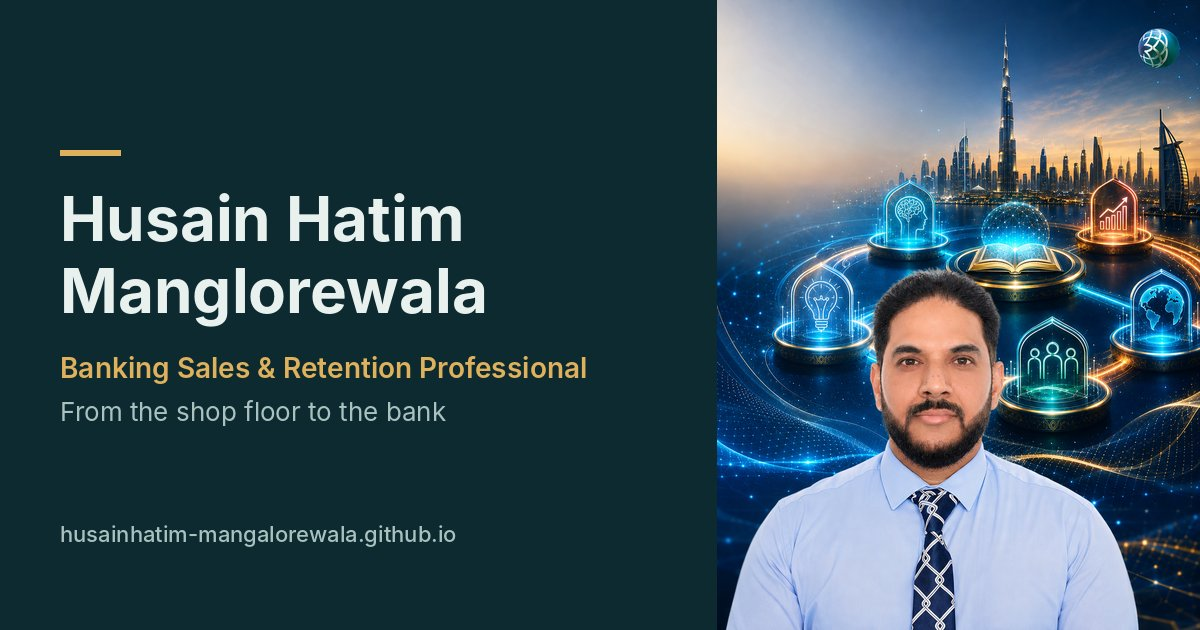
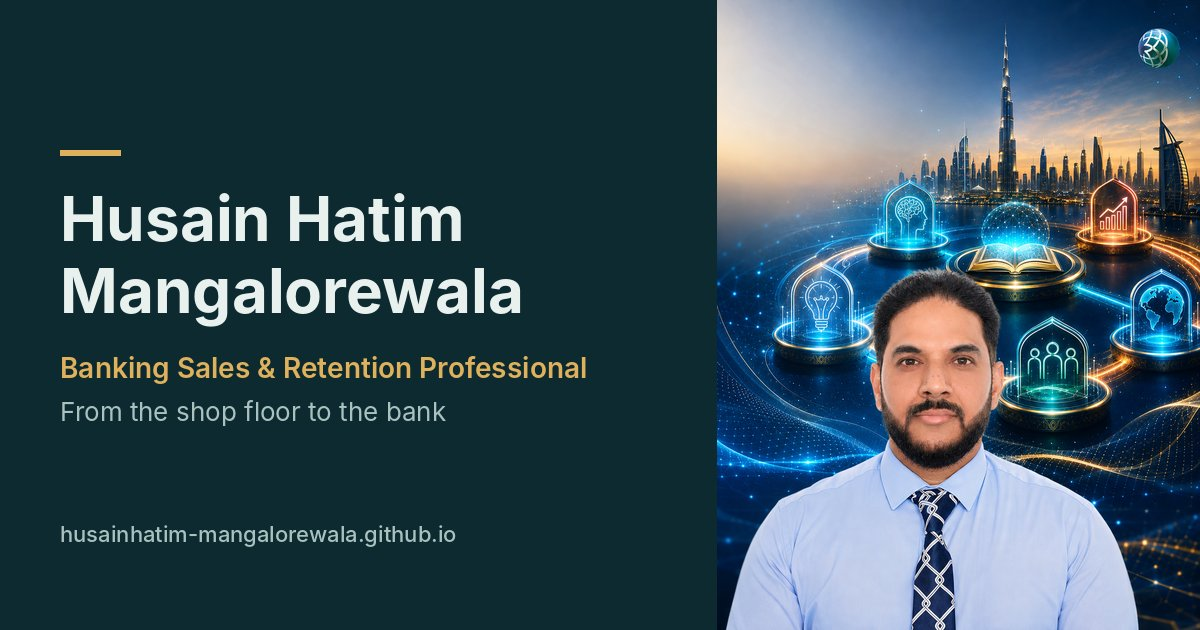
Spell name as Mangalorewala across the site
Claude-Session: https://claude.ai/code/session_01NqSthWaPKccU8ec62Qq6Wr

Changed region(s): [[0.185, 0.4222, 0.4317, 0.5127]]

diff --git a/index.html b/index.html
@@ -3,14 +3,14 @@
 <head>
 <meta charset="utf-8">
 <meta name="viewport" content="width=device-width, initial-scale=1, viewport-fit=cover">
-<title>Husain Hatim Manglorewala | From the Shop Floor to the Bank</title>
-<meta name="description" content="The story of Husain Hatim Manglorewala: 25 years from GCC retail leadership to customer retention in Islamic banking at Dubai Islamic Bank, Sharjah, UAE.">
-<meta name="keywords" content="Husain Hatim Manglorewala, Hussain Mangalorewala, Retention Officer, Dubai Islamic Bank, Banking Sales and Retention, Customer Retention, Islamic Banking, Sharjah, UAE, retail to banking career change">
-<meta name="author" content="Husain Hatim Manglorewala">
+<title>Husain Hatim Mangalorewala | From the Shop Floor to the Bank</title>
+<meta name="description" content="The story of Husain Hatim Mangalorewala: 25 years from GCC retail leadership to customer retention in Islamic banking at Dubai Islamic Bank, Sharjah, UAE.">
+<meta name="keywords" content="Husain Hatim Mangalorewala, Hussain Mangalorewala, Retention Officer, Dubai Islamic Bank, Banking Sales and Retention, Customer Retention, Islamic Banking, Sharjah, UAE, retail to banking career change">
+<meta name="author" content="Husain Hatim Mangalorewala">
 <meta name="google-site-verification" content="7sE03M1nezevRjDu_VGnbsKqyPA1BiCfz1v4_1zT2Tg">
 <meta name="robots" content="index, follow, max-image-preview:large">
 <meta name="theme-color" content="#0C2A30">
-<meta property="og:site_name" content="Husain Hatim Manglorewala">
+<meta property="og:site_name" content="Husain Hatim Mangalorewala">
 <meta property="og:locale" content="en_US">
 <link rel="icon" href="/favicon.ico" sizes="any">
 <link rel="icon" type="image/png" sizes="32x32" href="/favicon-32.png">
@@ -18,14 +18,14 @@
 <link rel="preload" as="image" href="/assets/portrait.webp" fetchpriority="high">
 <link rel="canonical" href="https://husainhatim-mangalorewala.github.io/">
 <meta property="og:type" content="profile">
-<meta property="og:title" content="Husain Hatim Manglorewala | From the Shop Floor to the Bank">
-<meta property="og:description" content="The story of Husain Hatim Manglorewala: 25 years from GCC retail leadership to customer retention in Islamic banking at Dubai Islamic Bank, Sharjah, UAE.">
+<meta property="og:title" content="Husain Hatim Mangalorewala | From the Shop Floor to the Bank">
+<meta property="og:description" content="The story of Husain Hatim Mangalorewala: 25 years from GCC retail leadership to customer retention in Islamic banking at Dubai Islamic Bank, Sharjah, UAE.">
 <meta property="og:url" content="https://husainhatim-mangalorewala.github.io/">
 <meta property="og:image" content="https://husainhatim-mangalorewala.github.io/assets/og-image.jpg">
 <meta property="og:image:width" content="1200"><meta property="og:image:height" content="630">
 <meta name="twitter:card" content="summary_large_image">
-<meta name="twitter:title" content="Husain Hatim Manglorewala | From the Shop Floor to the Bank"><meta name="twitter:description" content="The story of Husain Hatim Manglorewala: 25 years from GCC retail leadership to customer retention in Islamic banking at Dubai Islamic Bank, Sharjah, UAE."><meta name="twitter:image" content="https://husainhatim-mangalorewala.github.io/assets/og-image.jpg">
-<script type="application/ld+json">{"@context": "https://schema.org", "@graph": [{"@type": "Person", "@id": "https://husainhatim-mangalorewala.github.io/#person", "name": "Husain Hatim Manglorewala", "alternateName": ["Hussain Hatim Mangalorewala", "Husain Manglorewala", "Hussain Mangalorewala"], "jobTitle": "Retention Officer", "description": "Banking sales and retention professional in the UAE with 25+ years across GCC retail and banking.", "worksFor": {"@type": "Organization", "name": "Dubai Islamic Bank"}, "hasOccupation": {"@type": "Occupation", "name": "Banking Sales & Retention Professional", "occupationLocation": {"@type": "Country", "name": "United Arab Emirates"}}, "alumniOf": [{"@type": "EducationalOrganization", "name": "Kohinoor Technical Institute, Pune"}, {"@type": "EducationalOrganization", "name": "Rosary High School, Mumbai"}], "address": {"@type": "PostalAddress", "addressLocality": "Sharjah", "addressCountry": "AE"}, "url": "https://husainhatim-mangalorewala.github.io/", "image": "https://husainhatim-mangalorewala.github.io/assets/portrait.webp", "sameAs": ["https://www.linkedin.com/in/husain-mangalorewala-15b57823"], "knowsAbout": ["Customer Retention", "Islamic Banking", "CASA", "Wakala Deposits", "Credit Card Retention", "Retail Management", "MIS Reporting", "Microsoft Excel", "Power BI"], "knowsLanguage": ["English", "Hindi", "Urdu", "Gujarati", "Malayalam", "Arabic"]}, {"@type": "WebSite", "@id": "https://husainhatim-mangalorewala.github.io/#website", "url": "https://husainhatim-mangalorewala.github.io/", "name": "Husain Hatim Manglorewala", "inLanguage": "en", "publisher": {"@id": "https://husainhatim-mangalorewala.github.io/#person"}}, {"@type": "ProfilePage", "@id": "https://husainhatim-mangalorewala.github.io/#page", "url": "https://husainhatim-mangalorewala.github.io/", "name": "Husain Hatim Manglorewala – From the Shop Floor to the Bank", "isPartOf": {"@id": "https://husainhatim-mangalorewala.github.io/#website"}, "mainEntity": {"@id": "https://husainhatim-mangalorewala.github.io/#person"}, "dateModified": "2026-11-17"}]}</script>
+<meta name="twitter:title" content="Husain Hatim Mangalorewala | From the Shop Floor to the Bank"><meta name="twitter:description" content="The story of Husain Hatim Mangalorewala: 25 years from GCC retail leadership to customer retention in Islamic banking at Dubai Islamic Bank, Sharjah, UAE."><meta name="twitter:image" content="https://husainhatim-mangalorewala.github.io/assets/og-image.jpg">
+<script type="application/ld+json">{"@context": "https://schema.org", "@graph": [{"@type": "Person", "@id": "https://husainhatim-mangalorewala.github.io/#person", "name": "Husain Hatim Mangalorewala", "alternateName": ["Husain Hatim Manglorewala", "Husain Manglorewala", "Hussain Hatim Mangalorewala", "Hussain Mangalorewala", "Husain Mangalorewala"], "jobTitle": "Retention Officer", "description": "Banking sales and retention professional in the UAE with 25+ years across GCC retail and banking.", "worksFor": {"@type": "Organization", "name": "Dubai Islamic Bank"}, "hasOccupation": {"@type": "Occupation", "name": "Banking Sales & Retention Professional", "occupationLocation": {"@type": "Country", "name": "United Arab Emirates"}}, "alumniOf": [{"@type": "EducationalOrganization", "name": "Kohinoor Technical Institute, Pune"}, {"@type": "EducationalOrganization", "name": "Rosary High School, Mumbai"}], "address": {"@type": "PostalAddress", "addressLocality": "Sharjah", "addressCountry": "AE"}, "url": "https://husainhatim-mangalorewala.github.io/", "image": "https://husainhatim-mangalorewala.github.io/assets/portrait.webp", "sameAs": ["https://www.linkedin.com/in/husain-mangalorewala-15b57823"], "knowsAbout": ["Customer Retention", "Islamic Banking", "CASA", "Wakala Deposits", "Credit Card Retention", "Retail Management", "MIS Reporting", "Microsoft Excel", "Power BI"], "knowsLanguage": ["English", "Hindi", "Urdu", "Gujarati", "Malayalam", "Arabic"]}, {"@type": "WebSite", "@id": "https://husainhatim-mangalorewala.github.io/#website", "url": "https://husainhatim-mangalorewala.github.io/", "name": "Husain Hatim Mangalorewala", "inLanguage": "en", "publisher": {"@id": "https://husainhatim-mangalorewala.github.io/#person"}}, {"@type": "ProfilePage", "@id": "https://husainhatim-mangalorewala.github.io/#page", "url": "https://husainhatim-mangalorewala.github.io/", "name": "Husain Hatim Mangalorewala – From the Shop Floor to the Bank", "isPartOf": {"@id": "https://husainhatim-mangalorewala.github.io/#website"}, "mainEntity": {"@id": "https://husainhatim-mangalorewala.github.io/#person"}, "dateModified": "2026-11-17"}]}</script>
 <style>*,*::before,*::after{box-sizing:border-box}html{-webkit-text-size-adjust:100%}:root{padding-top:env(safe-area-inset-top,0px);padding-bottom:env(safe-area-inset-bottom,0px)}body{margin:0}img{max-width:100%}[hidden]{display:none!important}</style>
 </head>
 <body>
@@ -184,13 +184,13 @@ footer .wrap{padding-block:18px;display:flex;justify-content:space-between;gap:1
     </svg>
     <div class="wrap">
       <div class="hero-text">
-        <h1 class="kicker">Husain Hatim Manglorewala · From the shop floor to the bank</h1>
+        <h1 class="kicker">Husain Hatim Mangalorewala · From the shop floor to the bank</h1>
         <p class="headline">Twenty-five years of <em>earning trust</em>, one customer at a time.</p>
         <p class="lede">I spent two decades on the retail floors of Qatar and the UAE. In my mid-forties I started again in banking. This is the story of that journey, and what carried over from one counter to the other.</p>
         <div class="who">Retention Officer, Dubai Islamic Bank <span>· Sharjah, UAE</span></div>
         <div><a href="profile/" style="display:inline-flex;gap:8px;align-items:center;padding:10px 18px;border-radius:999px;border:1px solid rgba(233,241,239,.35);color:#E9F1EF;text-decoration:none;font-weight:600;font-size:15px">View professional profile →</a></div>
       </div>
-      <div class="portrait"><img src="assets/portrait.webp" alt="Portrait of Husain Hatim Manglorewala" width="720" height="938" fetchpriority="high" decoding="async"></div>
+      <div class="portrait"><img src="assets/portrait.webp" alt="Portrait of Husain Hatim Mangalorewala" width="720" height="938" fetchpriority="high" decoding="async"></div>
     </div>
   </section>
 
@@ -369,7 +369,7 @@ footer .wrap{padding-block:18px;display:flex;justify-content:space-between;gap:1
     <div class="wrap">
       <div>
         <blockquote>“It's not about where you start. It's about whether you're <em>still willing to learn</em>.”</blockquote>
-        <div class="sig">Husain Hatim Manglorewala · Sharjah, UAE</div>
+        <div class="sig">Husain Hatim Mangalorewala · Sharjah, UAE</div>
       </div>
       <div class="clist">
         <div class="crow"><div style="min-width:0"><div class="k">LinkedIn</div><a class="v" href="https://www.linkedin.com/in/husain-mangalorewala-15b57823" target="_blank" rel="noopener me">husain-mangalorewala ↗</a></div></div>
@@ -377,7 +377,7 @@ footer .wrap{padding-block:18px;display:flex;justify-content:space-between;gap:1
     </div>
   </section>
 </main>
-<footer><div class="wrap"><span>© 2026 Husain Hatim Manglorewala (also written Hussain Mangalorewala)</span><span>Trust · Service · Learning</span></div></footer>
+<footer><div class="wrap"><span>© 2026 Husain Hatim Mangalorewala (also written Hussain Mangalorewala)</span><span>Trust · Service · Learning</span></div></footer>
 
 <script>
 document.querySelectorAll('.copy').forEach(function(b){

diff --git a/profile/index.html b/profile/index.html
@@ -3,14 +3,14 @@
 <head>
 <meta charset="utf-8">
 <meta name="viewport" content="width=device-width, initial-scale=1, viewport-fit=cover">
-<title>Husain Hatim Manglorewala | Banking Retention Professional, UAE</title>
-<meta name="description" content="Husain Hatim Manglorewala, Retention Officer at Dubai Islamic Bank: 25+ years across GCC banking and retail, customer retention, CASA and Wakala deposits.">
-<meta name="keywords" content="Husain Hatim Manglorewala, Hussain Mangalorewala, Retention Officer, Dubai Islamic Bank, Banking Sales and Retention, Customer Retention, Islamic Banking, Sharjah, UAE, retail to banking career change">
-<meta name="author" content="Husain Hatim Manglorewala">
+<title>Husain Hatim Mangalorewala | Banking Retention Professional, UAE</title>
+<meta name="description" content="Husain Hatim Mangalorewala, Retention Officer at Dubai Islamic Bank: 25+ years across GCC banking and retail, customer retention, CASA and Wakala deposits.">
+<meta name="keywords" content="Husain Hatim Mangalorewala, Hussain Mangalorewala, Retention Officer, Dubai Islamic Bank, Banking Sales and Retention, Customer Retention, Islamic Banking, Sharjah, UAE, retail to banking career change">
+<meta name="author" content="Husain Hatim Mangalorewala">
 <meta name="google-site-verification" content="7sE03M1nezevRjDu_VGnbsKqyPA1BiCfz1v4_1zT2Tg">
 <meta name="robots" content="index, follow, max-image-preview:large">
 <meta name="theme-color" content="#0C2A30">
-<meta property="og:site_name" content="Husain Hatim Manglorewala">
+<meta property="og:site_name" content="Husain Hatim Mangalorewala">
 <meta property="og:locale" content="en_US">
 <link rel="icon" href="/favicon.ico" sizes="any">
 <link rel="icon" type="image/png" sizes="32x32" href="/favicon-32.png">
@@ -18,14 +18,14 @@
 <link rel="preload" as="image" href="/assets/portrait.webp" fetchpriority="high">
 <link rel="canonical" href="https://husainhatim-mangalorewala.github.io/profile/">
 <meta property="og:type" content="profile">
-<meta property="og:title" content="Husain Hatim Manglorewala | Banking Retention Professional, UAE">
-<meta property="og:description" content="Husain Hatim Manglorewala, Retention Officer at Dubai Islamic Bank: 25+ years across GCC banking and retail, customer retention, CASA and Wakala deposits.">
+<meta property="og:title" content="Husain Hatim Mangalorewala | Banking Retention Professional, UAE">
+<meta property="og:description" content="Husain Hatim Mangalorewala, Retention Officer at Dubai Islamic Bank: 25+ years across GCC banking and retail, customer retention, CASA and Wakala deposits.">
 <meta property="og:url" content="https://husainhatim-mangalorewala.github.io/profile/">
 <meta property="og:image" content="https://husainhatim-mangalorewala.github.io/assets/og-image.jpg">
 <meta property="og:image:width" content="1200"><meta property="og:image:height" content="630">
 <meta name="twitter:card" content="summary_large_image">
-<meta name="twitter:title" content="Husain Hatim Manglorewala | Banking Retention Professional, UAE"><meta name="twitter:description" content="Husain Hatim Manglorewala, Retention Officer at Dubai Islamic Bank: 25+ years across GCC banking and retail, customer retention, CASA and Wakala deposits."><meta name="twitter:image" content="https://husainhatim-mangalorewala.github.io/assets/og-image.jpg">
-<script type="application/ld+json">{"@context": "https://schema.org", "@graph": [{"@type": "Person", "@id": "https://husainhatim-mangalorewala.github.io/#person", "name": "Husain Hatim Manglorewala", "alternateName": ["Hussain Hatim Mangalorewala", "Husain Manglorewala", "Hussain Mangalorewala"], "jobTitle": "Retention Officer", "description": "Banking sales and retention professional in the UAE with 25+ years across GCC retail and banking.", "worksFor": {"@type": "Organization", "name": "Dubai Islamic Bank"}, "hasOccupation": {"@type": "Occupation", "name": "Banking Sales & Retention Professional", "occupationLocation": {"@type": "Country", "name": "United Arab Emirates"}}, "alumniOf": [{"@type": "EducationalOrganization", "name": "Kohinoor Technical Institute, Pune"}, {"@type": "EducationalOrganization", "name": "Rosary High School, Mumbai"}], "address": {"@type": "PostalAddress", "addressLocality": "Sharjah", "addressCountry": "AE"}, "url": "https://husainhatim-mangalorewala.github.io/", "image": "https://husainhatim-mangalorewala.github.io/assets/portrait.webp", "sameAs": ["https://www.linkedin.com/in/husain-mangalorewala-15b57823"], "knowsAbout": ["Customer Retention", "Islamic Banking", "CASA", "Wakala Deposits", "Credit Card Retention", "Retail Management", "MIS Reporting", "Microsoft Excel", "Power BI"], "knowsLanguage": ["English", "Hindi", "Urdu", "Gujarati", "Malayalam", "Arabic"]}, {"@type": "WebSite", "@id": "https://husainhatim-mangalorewala.github.io/#website", "url": "https://husainhatim-mangalorewala.github.io/", "name": "Husain Hatim Manglorewala", "inLanguage": "en", "publisher": {"@id": "https://husainhatim-mangalorewala.github.io/#person"}}, {"@type": "ProfilePage", "@id": "https://husainhatim-mangalorewala.github.io/profile/#page", "url": "https://husainhatim-mangalorewala.github.io/profile/", "name": "Husain Hatim Manglorewala – Professional Profile", "isPartOf": {"@id": "https://husainhatim-mangalorewala.github.io/#website"}, "mainEntity": {"@id": "https://husainhatim-mangalorewala.github.io/#person"}, "dateModified": "2026-11-17"}]}</script>
+<meta name="twitter:title" content="Husain Hatim Mangalorewala | Banking Retention Professional, UAE"><meta name="twitter:description" content="Husain Hatim Mangalorewala, Retention Officer at Dubai Islamic Bank: 25+ years across GCC banking and retail, customer retention, CASA and Wakala deposits."><meta name="twitter:image" content="https://husainhatim-mangalorewala.github.io/assets/og-image.jpg">
+<script type="application/ld+json">{"@context": "https://schema.org", "@graph": [{"@type": "Person", "@id": "https://husainhatim-mangalorewala.github.io/#person", "name": "Husain Hatim Mangalorewala", "alternateName": ["Husain Hatim Manglorewala", "Husain Manglorewala", "Hussain Hatim Mangalorewala", "Hussain Mangalorewala", "Husain Mangalorewala"], "jobTitle": "Retention Officer", "description": "Banking sales and retention professional in the UAE with 25+ years across GCC retail and banking.", "worksFor": {"@type": "Organization", "name": "Dubai Islamic Bank"}, "hasOccupation": {"@type": "Occupation", "name": "Banking Sales & Retention Professional", "occupationLocation": {"@type": "Country", "name": "United Arab Emirates"}}, "alumniOf": [{"@type": "EducationalOrganization", "name": "Kohinoor Technical Institute, Pune"}, {"@type": "EducationalOrganization", "name": "Rosary High School, Mumbai"}], "address": {"@type": "PostalAddress", "addressLocality": "Sharjah", "addressCountry": "AE"}, "url": "https://husainhatim-mangalorewala.github.io/", "image": "https://husainhatim-mangalorewala.github.io/assets/portrait.webp", "sameAs": ["https://www.linkedin.com/in/husain-mangalorewala-15b57823"], "knowsAbout": ["Customer Retention", "Islamic Banking", "CASA", "Wakala Deposits", "Credit Card Retention", "Retail Management", "MIS Reporting", "Microsoft Excel", "Power BI"], "knowsLanguage": ["English", "Hindi", "Urdu", "Gujarati", "Malayalam", "Arabic"]}, {"@type": "WebSite", "@id": "https://husainhatim-mangalorewala.github.io/#website", "url": "https://husainhatim-mangalorewala.github.io/", "name": "Husain Hatim Mangalorewala", "inLanguage": "en", "publisher": {"@id": "https://husainhatim-mangalorewala.github.io/#person"}}, {"@type": "ProfilePage", "@id": "https://husainhatim-mangalorewala.github.io/profile/#page", "url": "https://husainhatim-mangalorewala.github.io/profile/", "name": "Husain Hatim Mangalorewala – Professional Profile", "isPartOf": {"@id": "https://husainhatim-mangalorewala.github.io/#website"}, "mainEntity": {"@id": "https://husainhatim-mangalorewala.github.io/#person"}, "dateModified": "2026-11-17"}]}</script>
 <style>*,*::before,*::after{box-sizing:border-box}html{-webkit-text-size-adjust:100%}:root{padding-top:env(safe-area-inset-top,0px);padding-bottom:env(safe-area-inset-bottom,0px)}body{margin:0}img{max-width:100%}[hidden]{display:none!important}</style>
 </head>
 <body>
@@ -193,7 +193,7 @@ footer .wrap{padding-block:18px;display:flex;justify-content:space-between;gap:1
     <div class="wrap">
       <div class="hero-text">
         <div class="eyebrow">Personal Banking · Liabilities Retention · UAE</div>
-        <h1>Husain Hatim Manglorewala</h1>
+        <h1>Husain Hatim Mangalorewala</h1>
         <div class="role">Banking Sales &amp; Retention Professional</div>
         <p class="lede">I help banks keep their customers. Retention Officer at Dubai Islamic Bank, safeguarding CASA, Wakala deposit and remittance relationships, with 25+ years of sales and operations leadership across the GCC behind every conversation.</p>
         <div class="cta">
@@ -202,7 +202,7 @@ footer .wrap{padding-block:18px;display:flex;justify-content:space-between;gap:1
         </div>
         <div class="loc"><span><b>Based in</b> Sharjah, UAE</span><span><b>Licence</b> UAE &amp; Qatar</span><span><b>Languages</b> 6</span></div>
       </div>
-      <div class="portrait"><img src="../assets/portrait.webp" alt="Portrait of Husain Hatim Manglorewala" width="720" height="938" fetchpriority="high" decoding="async"></div>
+      <div class="portrait"><img src="../assets/portrait.webp" alt="Portrait of Husain Hatim Mangalorewala" width="720" height="938" fetchpriority="high" decoding="async"></div>
     </div>
   </section>
 
@@ -332,7 +332,7 @@ footer .wrap{padding-block:18px;display:flex;justify-content:space-between;gap:1
     </div>
   </section>
 </main>
-<footer><div class="wrap"><span>© 2026 Husain Hatim Manglorewala (also written Hussain Mangalorewala)</span><span>Banking Sales &amp; Retention · UAE</span></div></footer>
+<footer><div class="wrap"><span>© 2026 Husain Hatim Mangalorewala (also written Hussain Mangalorewala)</span><span>Banking Sales &amp; Retention · UAE</span></div></footer>
 
 <script>
 document.querySelectorAll('.copy').forEach(function(b){

diff --git a/404.html b/404.html
@@ -1,3 +1,3 @@
-<!doctype html><html lang="en"><head><meta charset="utf-8"><meta name="viewport" content="width=device-width, initial-scale=1"><title>Page not found | Husain Hatim Manglorewala</title>
+<!doctype html><html lang="en"><head><meta charset="utf-8"><meta name="viewport" content="width=device-width, initial-scale=1"><title>Page not found | Husain Hatim Mangalorewala</title>
 <style>body{margin:0;min-height:100vh;display:grid;place-items:center;background:#0C2A30;color:#E9F1EF;font-family:Inter,"Segoe UI",system-ui,sans-serif;text-align:center;padding:24px}a{color:#E0B15C}</style></head>
 <body><div><h1 style="font-weight:600">This page doesn't exist</h1><p><a href="/">Go to Husain's story</a> · <a href="/profile/">Professional profile</a></p></div></body></html>

diff --git a/README.md b/README.md
@@ -1,6 +1,6 @@
 # husainhatim-mangalorewala.github.io
 
-Personal portfolio of Husain Hatim Manglorewala.
+Personal portfolio of Husain Hatim Mangalorewala.
 
 - `/` – My Story: from the shop floor to the bank
 - `/profile/` – Professional profile
